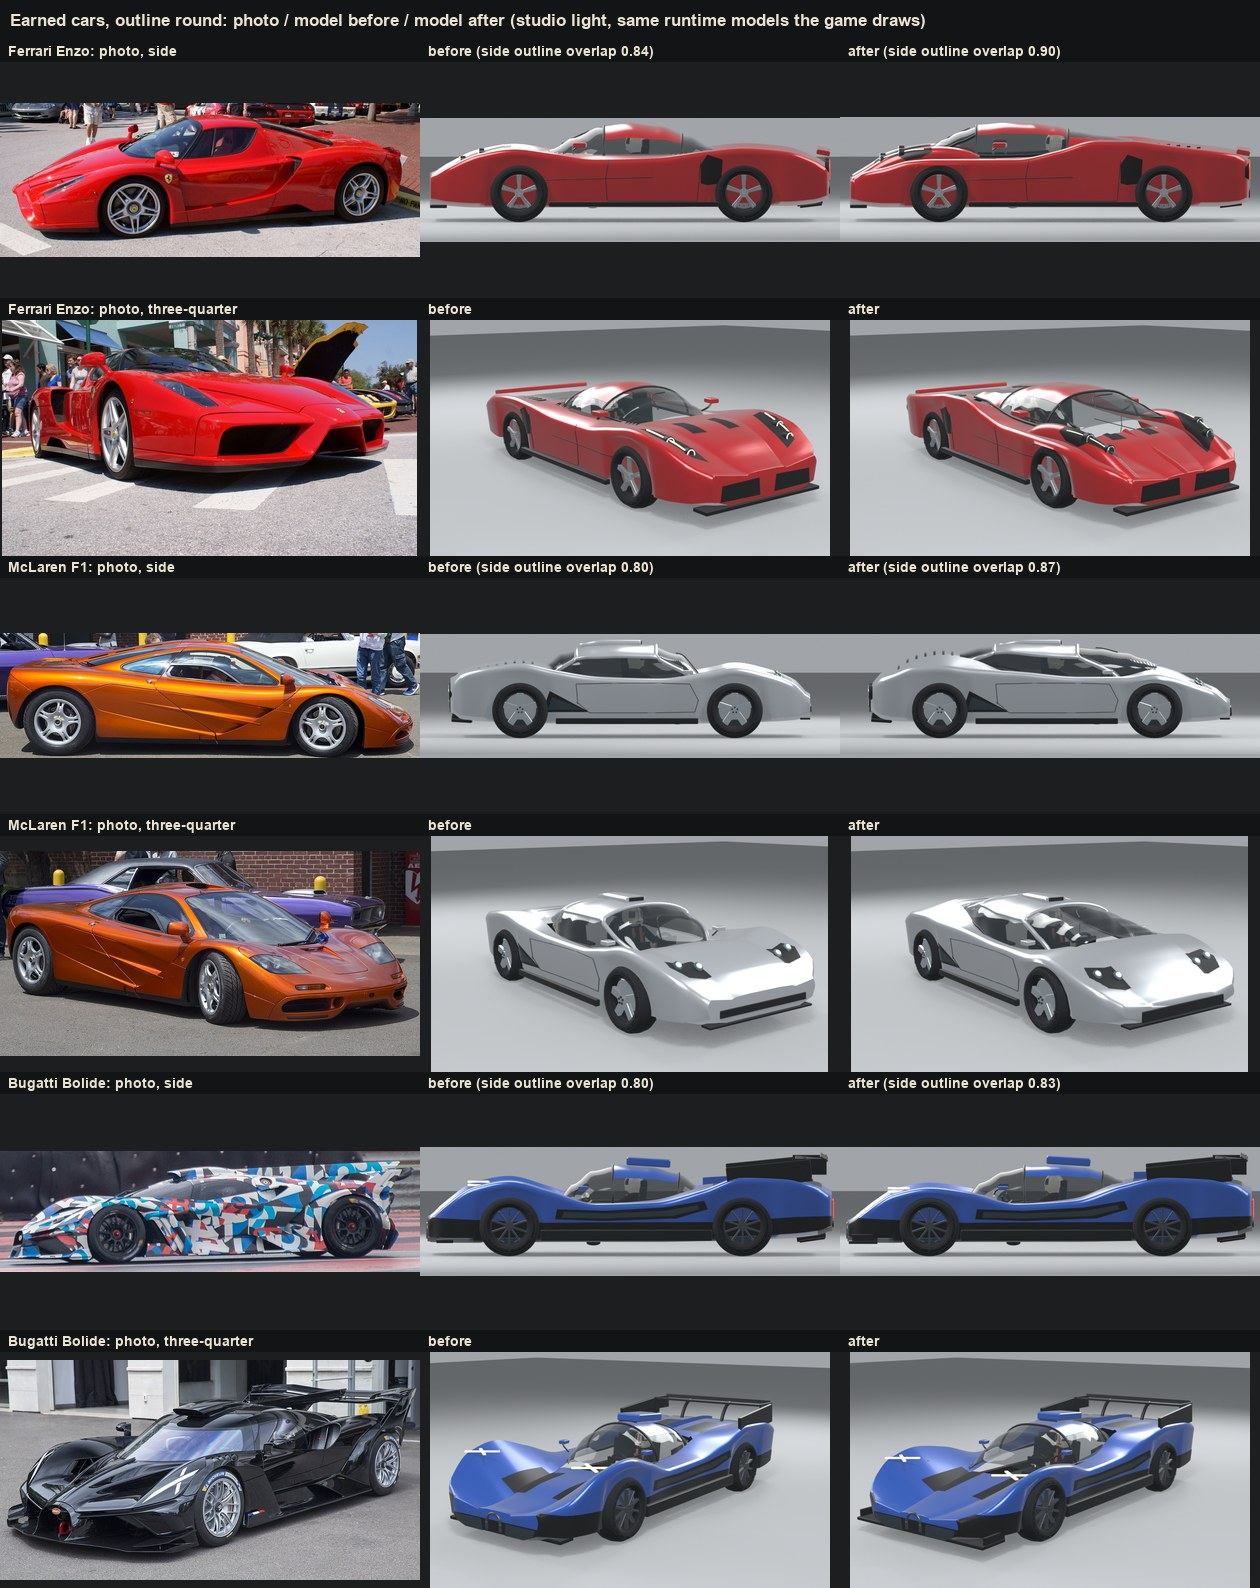
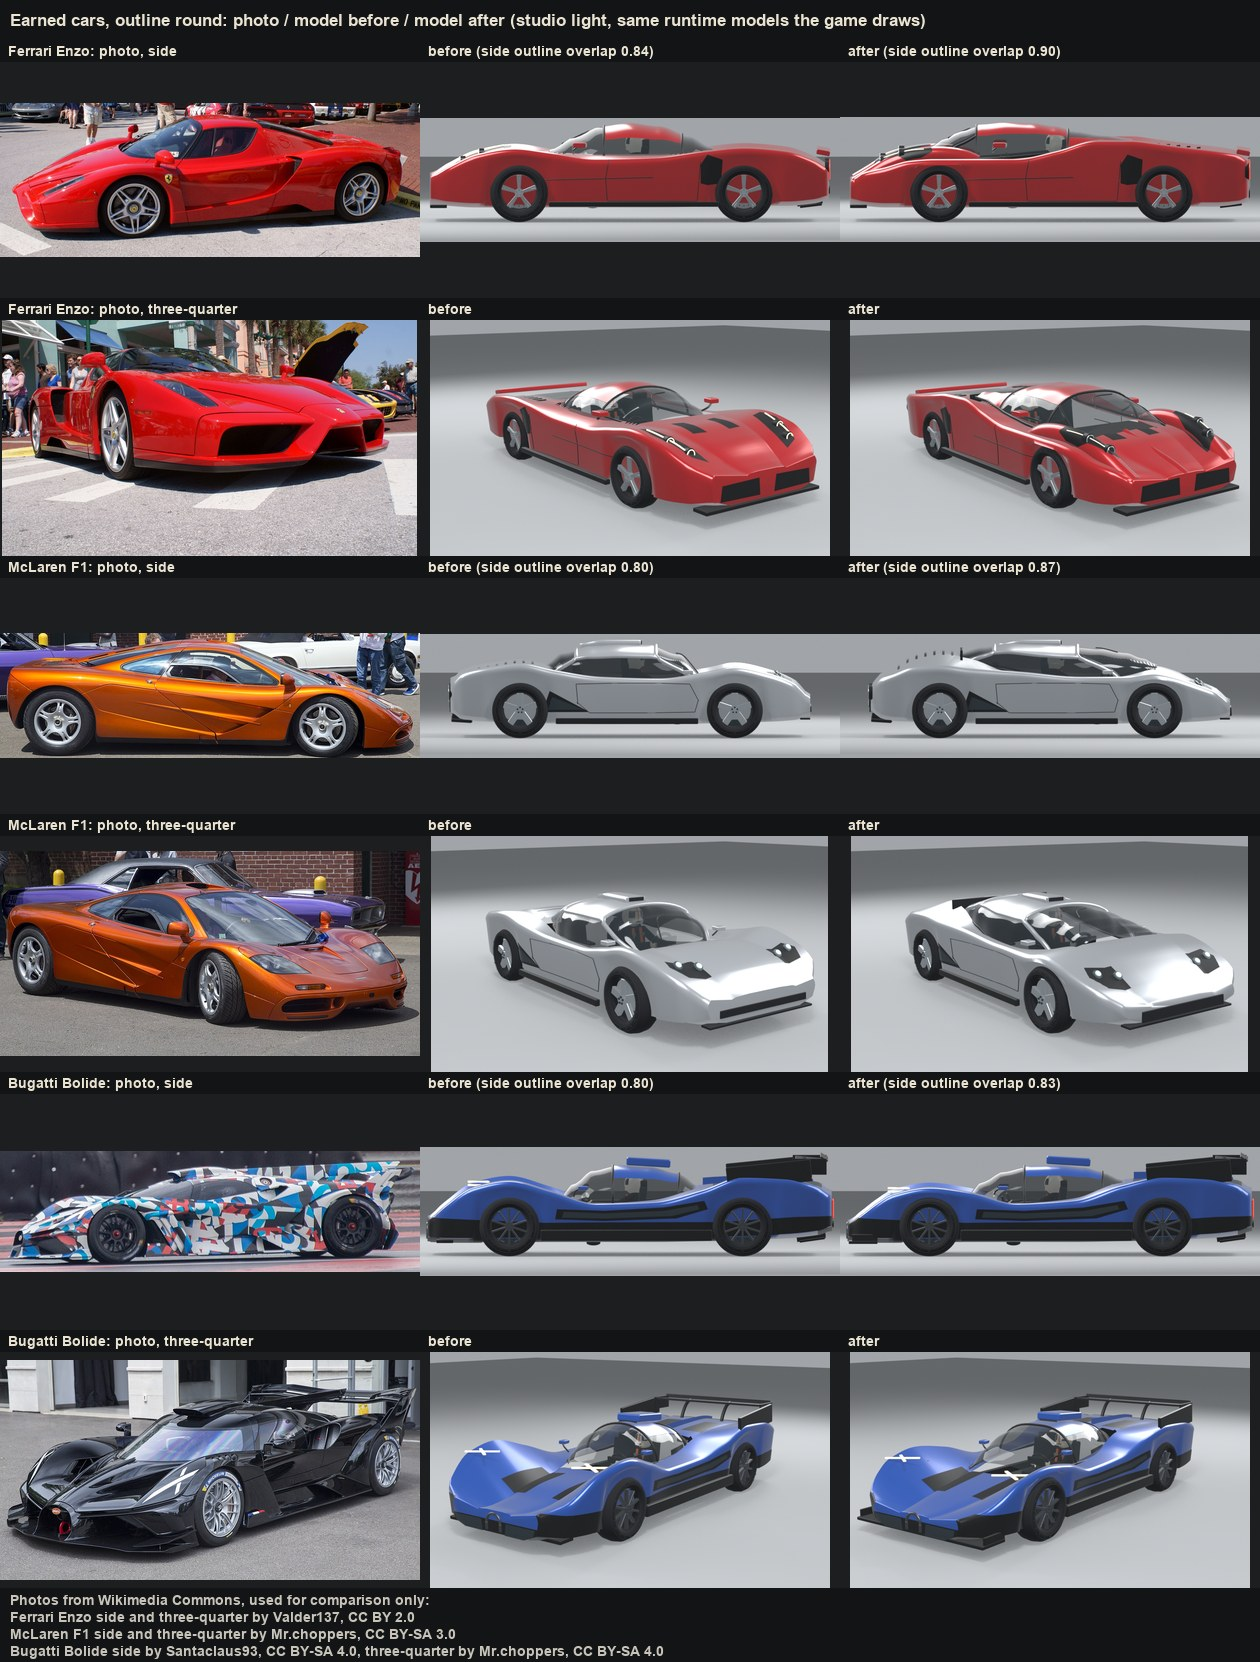
EARN-OUTLINE: photo credits on the sheet, Enzo lamps sunk into the humps, review fixes recorded
Sheet credits each photo's author and licence from sources.json (386 KB).
Ray-leak and crack-end numbers, the enzo-look and mclaren-f1-look runs and
Claude's verdict (Enzo 3, F1 3, Bolide 3 of 5) in the change note. Outline
docstring says only side views are traced.

diff --git a/src/enzo-vehicle.js b/src/enzo-vehicle.js
@@ -186,11 +186,11 @@ function fittedDetails(vehicle, m) {
     // with a slim running-light strip along the recess's outer edge.
     for (const [x, z] of [[.71, 1.96], [.79, 1.74]]) {
       const y = surfaceY(side * x, z); if (y === null) continue;
-      // Facing straight forward and sunk into the recess: a dark tinted lens with a thin lit ring.
-      cylinder(b, m.carbon, .062, .06, [side * x, y - .012, z], [Math.PI / 2, 0, 0], 20);
-      cylinder(b, m.glass, .05, .012, [side * x, y - .012, z + .031], [Math.PI / 2, 0, 0], 20);
-      const ring = new THREE.TorusGeometry(.046, .006, 6, 24);
-      b.add(ring, m.alloy, [side * x, y - .012, z + .036]); ring.dispose();
+      // Facing straight forward and sunk into the fender hump: a dark tinted lens with a thin bezel.
+      cylinder(b, m.carbon, .05, .06, [side * x, y - .04, z], [Math.PI / 2, 0, 0], 20);
+      cylinder(b, m.glass, .04, .012, [side * x, y - .04, z + .031], [Math.PI / 2, 0, 0], 20);
+      const ring = new THREE.TorusGeometry(.037, .005, 6, 24);
+      b.add(ring, m.alloy, [side * x, y - .04, z + .036]); ring.dispose();
     }
     const strip = [];
     for (let i = 0; i <= 8; i++) {

diff --git a/tools/art/earned-outline-sheet.py b/tools/art/earned-outline-sheet.py
@@ -47,12 +47,25 @@ def fit(image):
     return tile
 
 
+def credits():
+    """Author and licence of each photo on the sheet, read from each car's sources.json."""
+    lines = []
+    for _, _, library, name, views in CARS:
+        sources = {e['file']: e for e in json.loads((LIBRARY / library / 'reference' / 'sources.json').read_text())}
+        used = {}
+        for _, photo, _, _ in views:
+            e = sources[photo]
+            used.setdefault(f"{e['author']}, {e['licence']}", []).append(photo.removesuffix('.jpg'))
+        lines.append(f'{name} ' + ', '.join(f"{' and '.join(views)} by {who}" for who, views in used.items()))
+    return lines
+
+
 def main(folder, out, limit='500000'):
     folder, out, limit = Path(folder), Path(out), int(limit)
     scores = {when: json.loads((folder / when / 'fit.json').read_text()) for when in ('before', 'after')}
     rows = sum(len(car[4]) for car in CARS)
-    head, label = 40, 22
-    sheet = Image.new('RGB', (TILE[0] * 3, head + rows * (TILE[1] + label)), (18, 20, 22))
+    head, label, foot = 40, 22, 74
+    sheet = Image.new('RGB', (TILE[0] * 3, head + rows * (TILE[1] + label) + foot), (18, 20, 22))
     draw = ImageDraw.Draw(sheet)
     try:
         font, title = ImageFont.truetype('arialbd.ttf', 14), ImageFont.truetype('arialbd.ttf', 17)
@@ -77,6 +90,8 @@ def main(folder, out, limit='500000'):
             for i, text in enumerate(texts):
                 draw.text((i * TILE[0] + 8, y + 3), text, fill=(235, 228, 210), font=font)
             y += TILE[1] + label
+    for i, line in enumerate(['Photos from Wikimedia Commons, used for comparison only:', *credits()]):
+        draw.text((10, y + 4 + i * 17), line, fill=(200, 196, 186), font=font)
     for quality in range(88, 30, -4):
         sheet.save(out, quality=quality, optimize=True)
         if out.stat().st_size <= limit:

diff --git a/tools/art/earned-outlines.py b/tools/art/earned-outlines.py
@@ -5,13 +5,16 @@
                                                  draws each trace back over its photo
 
 The photos live in C:/Users/kyleb/dev/art-library/<car>/reference/ (viewing only, never
-shipped). Each trace is a list of photo pixels read off a 10 to 25 px grid. The side
-photos are taken from the front quarter with a slight downward look, so a plain scale
-would be wrong: the side view is mapped through a one-dimensional pinhole camera fitted
-to the two wheel hubs and the two rim sizes (the 19 or 20 inch rims are a known length),
-giving metres along the car and above the road. Front and rear outlines are scaled by
-the track of the two contact patches. Output is in game metres: +Z forward, front axle
-at the car file's front axle, ground at 0.
+shipped). Only the side views are traced: each trace is a list of photo pixels read off a
+10 to 25 px grid (the top line, the tail, the underside and, for two cars, the side
+window), with both hub centres and a rim or tyre size for scale. The Enzo's side photo is
+taken from the front quarter with a slight downward look, so it is mapped through a
+one-dimensional pinhole camera fitted to the nose, both hubs and the tail, with one height
+factor that brings the roof to the real height. The F1's photo is square on: the same fit
+with no height factor. The Bolide's is square on too but its axles sit off the game's, so
+it uses a plain scale taken from nose to tail ('square'). Front and rear
+widths were judged by eye, not traced. Output is in game metres: +Z forward, the front
+axle at the car file's front axle, ground at 0.
 """
 import json
 import sys

diff --git a/docs/changes/EARN-OUTLINE.md b/docs/changes/EARN-OUTLINE.md
@@ -5,7 +5,7 @@
   `C:/Users/kyleb/dev/art-library/<car>/reference/` (viewing only, never
   shipped or committed). Part of EARN-FINISH. Lane `claude/earn-outline`. Kind:
   car look. The `earned-cars` switch is not touched here.
-- Sheet: `docs/board/looks/earned-cars/outline-round.jpg` (366 KB): for each car
+- Sheet: `docs/board/looks/earned-cars/outline-round.jpg` (386 KB): for each car
   a side row and a three-quarter row, photo / model before / model after, the
   renders turned to face the photo's way.
 
@@ -19,10 +19,10 @@
 2. Map to game metres. The Enzo photo is taken from the front quarter (front rim
    66 px, rear 52 px), so it is mapped through a one-dimensional pinhole camera
    fitted to the nose, both hubs and the tail at the declared length, with one
-   height factor for the downward look (roof to the real 1.147 m). The F1 and
-   Bolide photos are square on, so they use a plain scale (the Bolide's
-   lengthwise scale comes from nose and tail, because the game's axles sit about
-   20 cm rearward of the photo's). Output: `tools/art/earned-outlines.json`.
+   height factor for the downward look (roof to the real 1.147 m). The F1 photo
+   is square on: the same fit with no height factor. The Bolide photo is square
+   on too, but the game's axles sit about 20 cm rearward of the photo's, so it
+   uses a plain scale from nose to tail. Output: `tools/art/earned-outlines.json`.
 3. Rebuild the body stations, the glasshouse sections and the worst details
    from those numbers (below).
 4. Score. `tools/art/earned-export.mjs` builds the runtime model through the
@@ -50,6 +50,9 @@ after only.
 Verdict (self): **better proportions on all three, gritty not toy-like, not
 release-quality likenesses.** Enzo and F1 gain half a point each; the Bolide's
 shape changed but its score did not.
+
+Claude's verdict: accepted by Claude 3 November: Enzo 3, F1 3, Bolide 3 of 5;
+gritty, not toy-like.
 
 ## What changed per car
 
@@ -83,9 +86,9 @@ shape changed but its score did not.
 
 Kept: declared sizes, wheel positions and radii, collision footprints, driver
 and steering hooks, damage and crush, design feature labels and every vehicle
-contract check. Budgets: Enzo 69,111 / 55 (was 64,710 / 54), F1 54,800 / 54
-(was 54,793 / 54), Bolide 66,408 / 55 (was 65,871 / 55), all under the Jesko's
-73,600 triangles and 66 draws.
+contract check. Budgets before the review fixes: Enzo 69,111 / 55 (was 64,710 /
+54), F1 54,800 / 54 (was 54,793 / 54), Bolide 66,408 / 55 (was 65,871 / 55),
+all under the Jesko's 73,600 triangles and 66 draws.
 
 ## Tests and checks
 
@@ -100,14 +103,78 @@ contract check. Budgets: Enzo 69,111 / 55 (was 64,710 / 54), F1 54,800 / 54
   the Enzo and Bolide files were reworded after it started (comments only).
 - `npm run build`: passes.
 - Not run: frame timing (rule 9: art rounds are not frame-timed), browser
-  look scenarios (`enzo-look`, `mclaren-f1-look`: laptop-only; the parent
-  session's play-through covers the cars in the game), the full tier.
+  look scenarios in the first pass (run after the review fixes, below), the
+  full tier.
 - Test-driven corrections during the round, no test touched: the Enzo fender
   test (fenders above the beak) failed with a tall ridge, so the ridge was
   made smaller and fender humps added; the F1's windscreen frame, helmet and
   snorkel checks failed with a wide, high front cabin, so its front sections
   were narrowed and the roof kept under 1.09 m; the F1 paint colour is pinned,
   so only its metalness and roughness changed.
+
+## Review fixes (3 November)
+
+The review found three real faults; all fixed in this lane.
+
+1. **See-through under the new glass.** The cockpit openings had moved forward
+   (Enzo to 1.42 m, F1 to 1.26 m) past the cockpit floors (about .83 and
+   .86 m), and the F1 opening (.70 m half width) was wider than its windscreen
+   base, so views ran into the hollow nose and, on the Enzo, through the
+   bigger rear glass into the tail. Fixed:
+   - Enzo: a dark carbon scuttle under the windscreen (z .78 to 1.44), the
+     floor run from the new bulkhead to the scuttle (z -.97 to 1.44), a carbon
+     bulkhead behind the seats at the opening's back edge, and the
+     windscreen's lower edge brought down onto the body (.72 to .75 m instead
+     of .77 to .83 m).
+   - F1: a carbon scuttle out past the opening edges (x ±.74, tucked 1.5 cm
+     under the body edge, z .84 to 1.28), a floor under it, the main floor run
+     back to the opening's back edge and a rear bulkhead.
+   - Bolide: the floor now covers the whole cockpit opening (z -.87 to 1.03).
+   Check: a grid of parallel rays (0.033 m apart) over each car in four
+   directions; a ray counts when it passes the glass or the cockpit opening
+   and its first solid hit is the inside of the body shell outside the old
+   cockpit floor, or nothing at all. Built model (`integration/wasteland`
+   base) against the fixed branch:
+
+   | Car | Straight down | Chase camera, 19 degrees down from behind | Rearward, 30 degrees down | Forward, 30 degrees down |
+   | --- | --- | --- | --- | --- |
+   | Enzo base, fixed | 118, 0 | 65, 40 | 51, 0 | 97, 3 |
+   | F1 base, fixed | 11, 0 | 114, 98 | 30, 8 | 20, 2 |
+   | Bolide base, fixed | 0, 0 | 56, 39 | 50, 44 | 20, 18 |
+
+   Every count is now at or below the base. The remaining chase counts sit at
+   the nose (z 1.5 to 2.1 m: wheel houses and lamp recesses seen from behind,
+   present in the base too), not in the cockpit. The review's own numbers on
+   the unfixed branch were about 250 chase rays into the F1 nose (base about
+   6) and about 80 rearward rays into the Enzo tail (base none).
+2. **Enzo windscreen cracks under the roof.** `frontGlassZ` .92 put 18 of 52
+   crack ends under the painted roof. Now 1.12 (on the windscreen) and
+   `rearGlassZ` -.66 (on the rear glass, ahead of where it ends): 0 of 52
+   front and 0 of 52 rear crack ends under paint (checked by casting down from
+   each crack end). The same check found two smaller cases, also fixed: F1 rear
+   2 of 48 under paint at -.97, now 0 of 44 at -1.03 (base 0 of 42); Bolide
+   rear 16 of 48 at -.64, now 3 of 44 at -.74 (base 12 of 44).
+3. **Photo credits.** The sheet now ends with the author and licence of each
+   photo, read from each car's `sources.json` by
+   `tools/art/earned-outline-sheet.py`: Ferrari Enzo side and three-quarter by
+   Valder137 (CC BY 2.0); McLaren F1 side and three-quarter by Mr.choppers (CC
+   BY-SA 3.0); Bugatti Bolide side by Santaclaus93 (CC BY-SA 4.0),
+   three-quarter by Mr.choppers (CC BY-SA 4.0). Sheet 386 KB.
+4. The `earned-outlines.py` docstring now says only the side views are traced
+   and how each car is mapped.
+
+Also found in the browser look: the Enzo's headlamp lenses stood above the
+new fender humps like goggles; they are smaller (.05 m) and sunk 4 cm into the
+humps.
+
+Checks after the fixes, with `integration/wasteland` (0510b9c9) merged in
+cleanly: `test-enzo-vehicle` (426), `test-mclaren-f1-vehicle` (351),
+`test-bolide-vehicle` (430), `test-vehicle-assets` (147), `test-repo-hygiene`
+(placement passed), `test-repo-hygiene-rules` (150) all pass. Browser
+scenarios, one at a time: `enzo-look` (9 screenshots, 0 warnings, 0 errors;
+rerun after the lamp fix, same result) and `mclaren-f1-look` (6 screenshots,
+0 warnings, 0 errors); screenshots looked at, then deleted. Budgets now: Enzo
+69,413 / 55, F1 55,402 / 54, Bolide 66,408 / 55.
 
 ## Changed assertions
 
